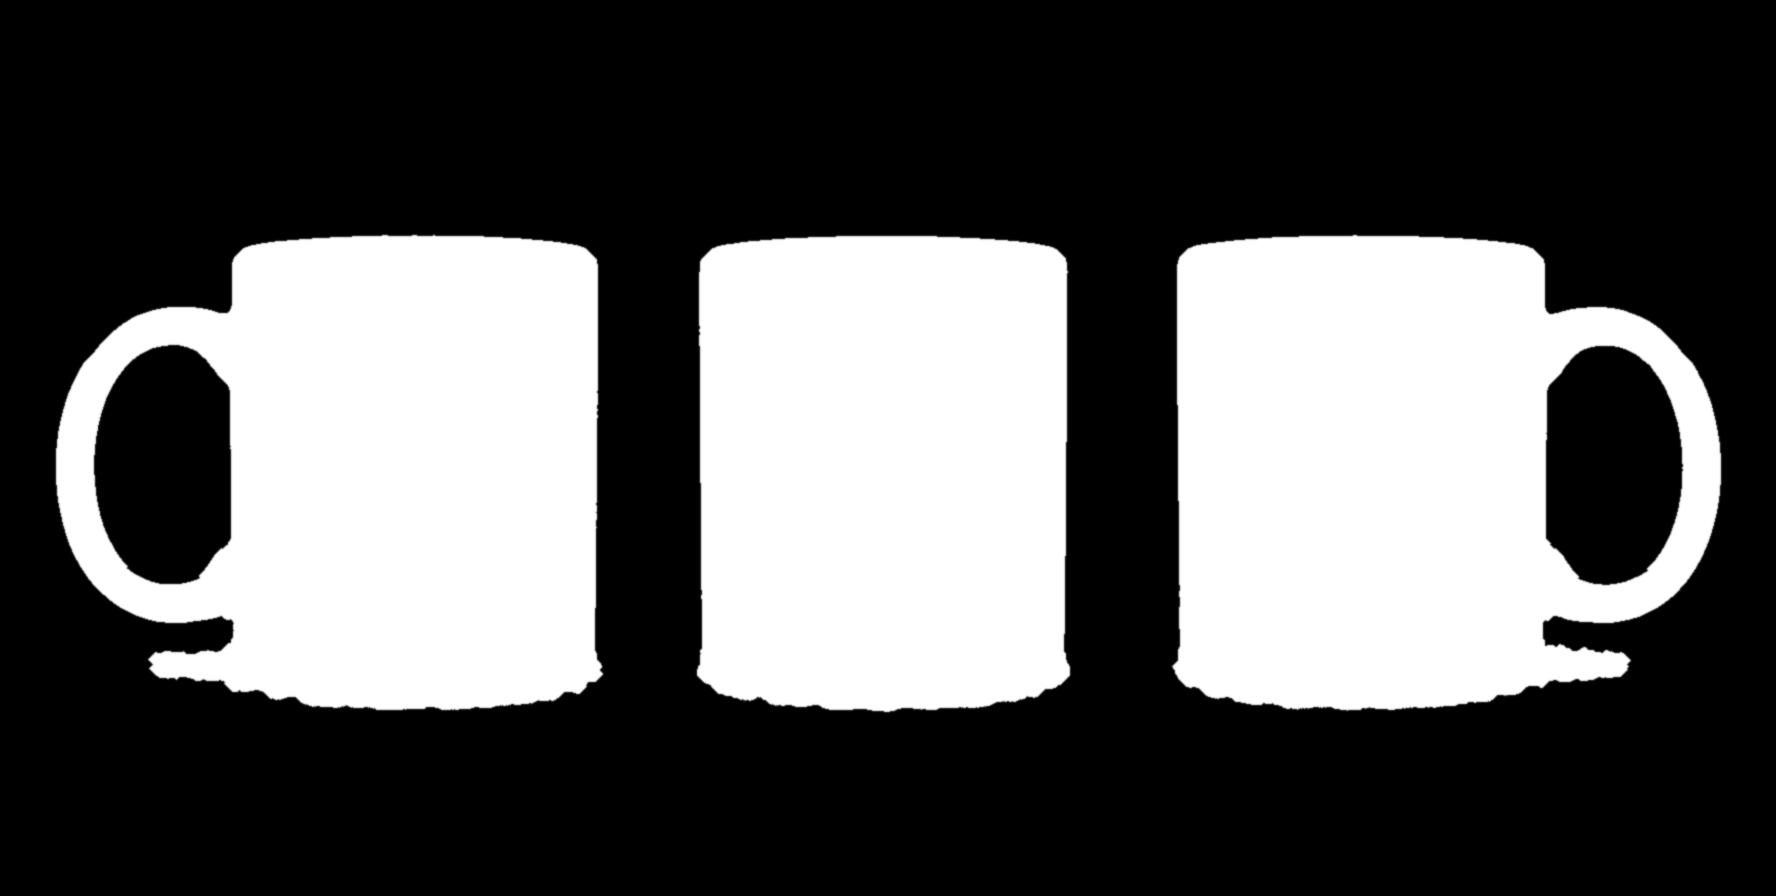
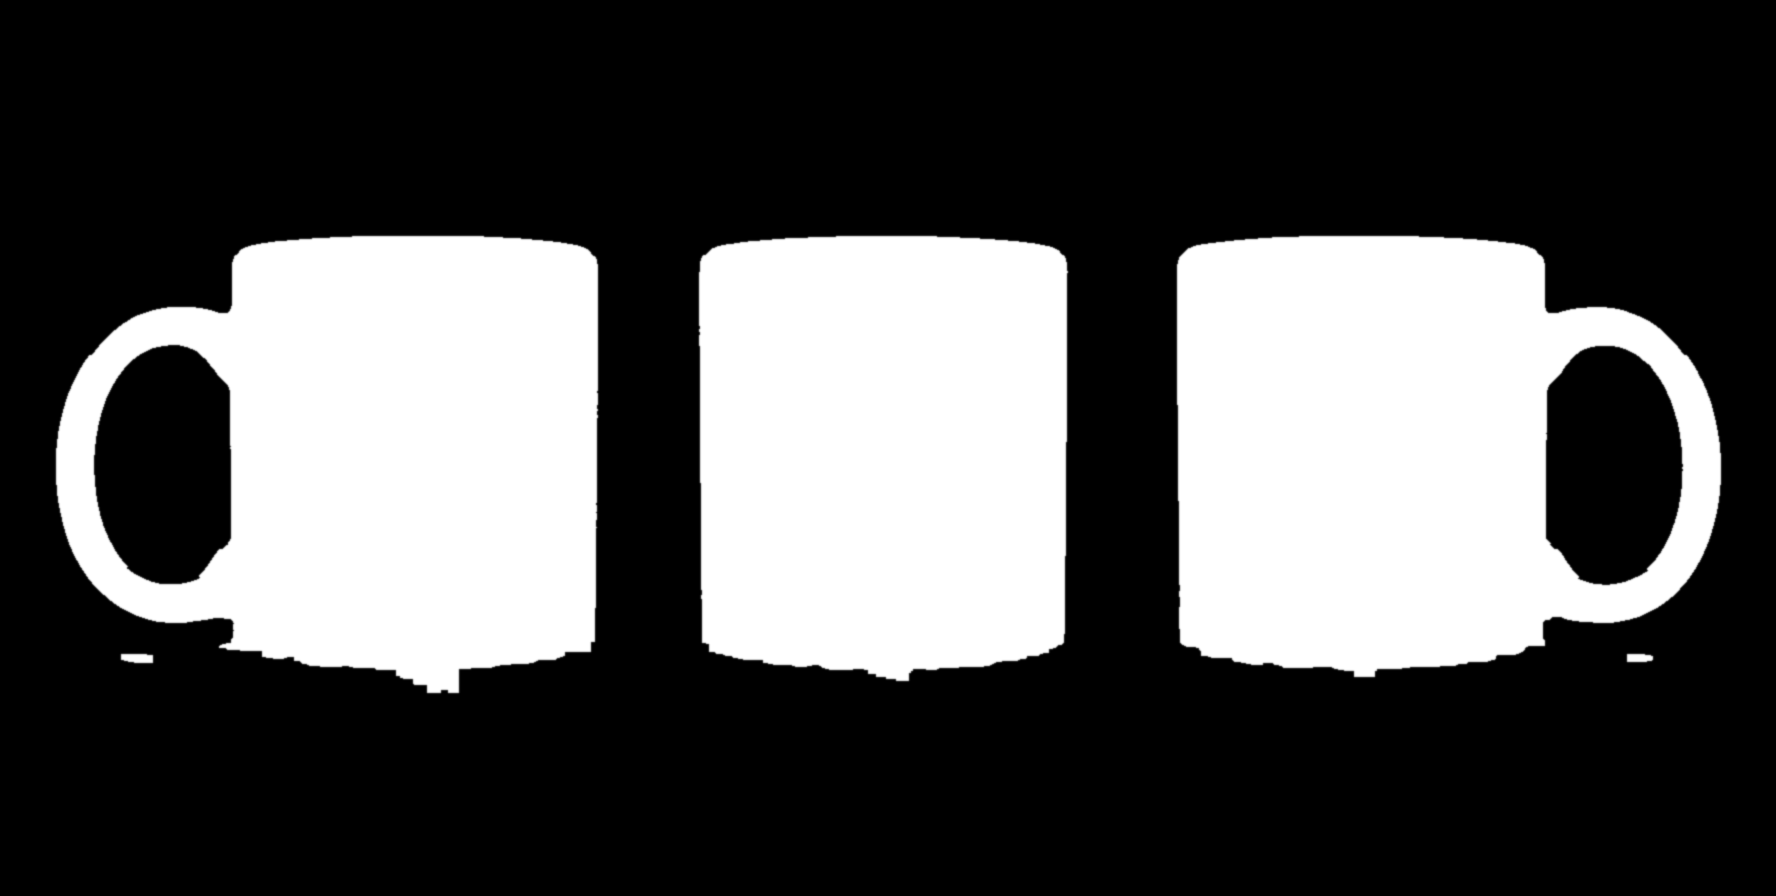
Konfigurator: Fotos mit grauem Hintergrund und echtem Schatten, nur das Produkt wird eingefärbt
Claude-Session: https://claude.ai/code/session_01VgMNm2JQ5rEuMZ6iNr5NQ8

Changed region(s): [[0.6503, 0.7188, 0.9291, 0.8125], [0.0619, 0.7188, 0.3407, 0.8125], [0.3716, 0.7188, 0.6194, 0.8125]]

diff --git a/website/konfigurator/konfig.js b/website/konfigurator/konfig.js
@@ -196,7 +196,16 @@
       sd.data[p] = sd.data[p + 1] = sd.data[p + 2] = v; sd.data[p + 3] = 255;
     }
     shade.getContext('2d').putImageData(sd, 0, 0);
-    return { w, h, n, src, alpha, lum, acc, hasAccent, ref, gain, views, shade, cache: new Map() };
+    // Originalfoto (mit grauem Hintergrund und natürlichem Schatten) und Produkt-Umriss für das Zuschneiden der Logos
+    const orig = canvas(w, h); orig.getContext('2d').drawImage(img, 0, 0);
+    const cut = canvas(w, h), cd = new ImageData(w, h);
+    for (let i = 0, p = 0; i < n; i++, p += 4) { cd.data[p] = cd.data[p + 1] = cd.data[p + 2] = 255; cd.data[p + 3] = alpha[i]; }
+    cut.getContext('2d').putImageData(cd, 0, 0);
+    // Hintergrundfarbe (Mittel der Ecken) zum Auffüllen
+    const corner = (X, Y) => { const p = (Y * w + X) * 4; return [src[p], src[p + 1], src[p + 2]]; };
+    const cs = [corner(4, 4), corner(w - 5, 4), corner(4, h - 5), corner(w - 5, h - 5)];
+    const bgc = 'rgb(' + [0, 1, 2].map((k) => Math.round(cs.reduce((a, c) => a + c[k], 0) / 4)).join(',') + ')';
+    return { w, h, n, src, alpha, lum, acc, hasAccent, ref, gain, views, shade, orig, cut, bgc, cache: new Map() };
   }
 
   function tint(Pp, hx) {
@@ -397,13 +406,15 @@
 
     function compose() {
       if (!cur) return null;
-      const g = tint(cur, S.hex);
+      // Weiß = Originalfoto, sonst das eingefärbte Produkt über das Foto legen (Hintergrund und Schatten bleiben echt)
+      const g = S.hex.toLowerCase() === '#ffffff' ? null : tint(cur, S.hex);
       const out = canvas(cur.w, cur.h), o = out.getContext('2d');
-      o.drawImage(g, 0, 0);
+      o.drawImage(cur.orig, 0, 0);
+      if (g) o.drawImage(g, 0, 0);
       if (S.logo && S.places.length) {
         const lay = canvas(cur.w, cur.h), l = lay.getContext('2d');
         for (const pl of S.places) { const r = placeRect(pl); l.drawImage(S.logo.canvas, r.x, r.y, r.w, r.h); }
-        l.globalCompositeOperation = 'destination-in'; l.drawImage(g, 0, 0);   // nur auf dem Stoff
+        l.globalCompositeOperation = 'destination-in'; l.drawImage(cur.cut, 0, 0);   // nur auf dem Produkt
         const sh = canvas(cur.w, cur.h), s = sh.getContext('2d');
         s.drawImage(cur.shade, 0, 0); s.globalCompositeOperation = 'destination-in'; s.drawImage(lay, 0, 0);
         o.drawImage(lay, 0, 0);
@@ -421,7 +432,7 @@
       const b = viewBox(k), v = cur.views[k], f = size / b.s;
       const sx0 = Math.max(b.x, v.x - 6, 0), sx1 = Math.min(b.x + b.s, v.x + v.w + 6, cur.w);
       const sy0 = Math.max(b.y, 0), sy1 = Math.min(b.y + b.s, cur.h);
-      x.fillStyle = '#fff'; x.fillRect(0, 0, size, size);
+      x.fillStyle = cur.bgc; x.fillRect(0, 0, size, size);
       if (sx1 > sx0 && sy1 > sy0) x.drawImage(composed, sx0, sy0, sx1 - sx0, sy1 - sy0, (sx0 - b.x) * f, (sy0 - b.y) * f, (sx1 - sx0) * f, (sy1 - sy0) * f);
     }
     function drawThumbsLabels() {
@@ -500,7 +511,6 @@
     function full(bg) {
       if (!cur) return null;
       const c = compose(), out = canvas(c.width, c.height), o = out.getContext('2d');
-      if (bg !== false) { o.fillStyle = '#fff'; o.fillRect(0, 0, out.width, out.height); }
       o.drawImage(c, 0, 0);
       return out;
     }

diff --git a/tools/konfigurator/freistellen.py b/tools/konfigurator/freistellen.py
@@ -1,6 +1,6 @@
 """Produktfotos für den Konfigurator vorbereiten.
 
-Aufruf:  python3 freistellen.py <quelle.png> <ziel-ohne-endung> [schwelle] [kante] ["x,y;x,y" Öffnungen] [schatten] [-] [glätten]
+Aufruf:  python3 freistellen.py <quelle.png> <ziel-ohne-endung> [schwelle] [kante] ["x,y;x,y" Öffnungen] [schatten] [-] [glätten] [bodenschatten-px]
 Ergebnis: <ziel>.jpg (Foto) und <ziel>-m.png (Maske: weiß = Produkt, schwarz = Hintergrund).
 
 Der Hintergrund darf hellgrau sein. Er wird als sanfter Verlauf aus den Bildrändern geschätzt; alles, was
@@ -18,6 +18,7 @@ G = float(sys.argv[4]) if len(sys.argv) > 4 else 4.0
 TD = float(sys.argv[6]) if len(sys.argv) > 6 else T
 HELL = len(sys.argv) > 7 and sys.argv[7] == 'hell'
 OPEN = int(sys.argv[8]) if len(sys.argv) > 8 else 1
+BODEN = int(sys.argv[9]) if len(sys.argv) > 9 else 0
 SEEDS = [tuple(int(v) for v in p.split(',')) for p in (sys.argv[5].split(';') if len(sys.argv) > 5 and sys.argv[5] else [])]
 im = Image.open(src).convert('RGB')
 a = np.asarray(im).astype(np.float32)
@@ -71,6 +72,20 @@ if HELL:
         sizes = ndi.sum(np.ones_like(lab5), lab5, index=np.arange(1, n5 + 1))
         br = np.isin(lab5, np.nonzero(sizes >= 2000)[0] + 1)
     fg &= br
+if BODEN:
+    # Bodenschatten unten am Produkt nicht mitfärben: je Spalte von unten nach oben die hellgrauen
+    # Schattenpixel abtragen. Sehr dunkle Pixel (Unterseite des Schirms) gehören zum Produkt und bleiben.
+    for x in range(w):
+        ys = np.nonzero(fg[:, x])[0]
+        if not len(ys):
+            continue
+        y = ys[-1]
+        k = 0
+        while y >= 0 and fg[y, x] and k < BODEN and -35 < d[y, x] < -2:
+            fg[y, x] = False; y -= 1; k += 1
+    # stehengebliebene senkrechte Zacken glätten
+    fg = ndi.binary_opening(fg, structure=np.ones((1, 11), bool))
+    fg = ndi.binary_closing(fg, structure=np.ones((1, 7), bool))
 m = Image.fromarray((fg * 255).astype(np.uint8)).filter(ImageFilter.GaussianBlur(0.8))
 m.save(dst + '-m.png', optimize=True)
 im.save(dst + '.jpg', quality=90, optimize=True, progressive=True)

diff --git a/tools/konfigurator/vorschaubild.py b/tools/konfigurator/vorschaubild.py
@@ -1,4 +1,4 @@
-"""Kleines Auswahlbild (eine Ansicht auf Weiß) aus Foto und Maske: python3 vorschaubild.py <ziel-ohne-endung> [ansicht]"""
+"""Kleines Auswahlbild (eine Ansicht mit dem Foto-Hintergrund) aus Foto und Maske: python3 vorschaubild.py <ziel-ohne-endung> [ansicht]"""
 import sys
 import numpy as np
 from PIL import Image
@@ -14,9 +14,12 @@ runs.append((st, prev))
 x0, x1 = runs[k]
 rows = np.nonzero(a[:, x0:x1 + 1].any(1))[0]; y0, y1 = rows[0], rows[-1]
 side = int(max(x1 - x0, y1 - y0) * 1.1); cx, cy = (x0 + x1) // 2, (y0 + y1) // 2
-mm = np.asarray(m).copy(); mm[:, :max(0, x0 - 6)] = 0; mm[:, x1 + 7:] = 0   # nur diese Ansicht
-white = Image.new('RGB', im.size, 'white'); white.paste(im, (0, 0), Image.fromarray(mm))
-pad = Image.new('RGB', (im.width + 2 * side, im.height + 2 * side), 'white'); pad.paste(white, (side, side))
+# Originalfoto mit seinem grauen Hintergrund; Nachbaransichten mit der Hintergrundfarbe überdecken
+arr = np.asarray(im).copy()
+bgc = np.median(np.concatenate([arr[:6].reshape(-1, 3), arr[-6:].reshape(-1, 3)]), axis=0).astype(np.uint8)
+arr[:, :max(0, x0 - 6)] = bgc; arr[:, x1 + 7:] = bgc
+src = Image.fromarray(arr)
+pad = Image.new('RGB', (im.width + 2 * side, im.height + 2 * side), tuple(int(v) for v in bgc)); pad.paste(src, (side, side))
 canvas = pad.crop((cx + side // 2, cy + side // 2, cx + side + side // 2, cy + side + side // 2))
 canvas.resize((200, 200), Image.LANCZOS).save(base + '-t.jpg', quality=85)
 print(base, len(runs), 'Ansichten')

diff --git a/website/UPDATE-ANLEITUNG.md b/website/UPDATE-ANLEITUNG.md
@@ -88,4 +88,4 @@
 - **Neue Ordner:** `konfigurator/` (Tool und Produktfotos) und `anfrage-vorschau/` (Vorschaubilder und Logos der Anfragen, von außen gesperrt). Beide mit hochladen. Die Dateien werden wie die Anfragen nach 12 Monaten gelöscht.
 - **Auftragsprogramm:** Unter **Produkte → 🎨 Konfigurator** schnell planen, mit eigener Farbe, Logo per Maus/Finger verschieben und Bild herunterladen. Bei einer Anfrage aus dem Tool erscheinen Vorschaubild, Auswahl und die Knöpfe „Im Konfigurator öffnen“, „Vorschau herunterladen“ und „Logo herunterladen“. „Neuer Auftrag damit“ übernimmt die Auswahl als Notiz in einen neuen Auftrag.
 - **Noch Standardwerte:** Farben je Produkt und Höchstgrößen je Position. Sie stehen oben in `konfigurator/konfig.js` und werden ersetzt, sobald die echten Werte da sind.
-- **Produktfotos:** liegen als weiße Fotos mit Freistell-Maske in `konfigurator/img/` (`<name>.jpg`, `<name>-m.png`, Auswahlbild `<name>-t.jpg`). Neue Fotos auf hellgrauem oder weißem Grund lassen sich mit `tools/konfigurator/freistellen.py` und `vorschaubild.py` vorbereiten.
+- **Produktfotos:** Originalfotos mit grauem Hintergrund und echtem Schatten; eingefärbt wird nur das Produkt über die Maske in `konfigurator/img/` (`<name>.jpg`, `<name>-m.png`, Auswahlbild `<name>-t.jpg`). Neue Fotos auf hellgrauem oder weißem Grund lassen sich mit `tools/konfigurator/freistellen.py` und `vorschaubild.py` vorbereiten.
